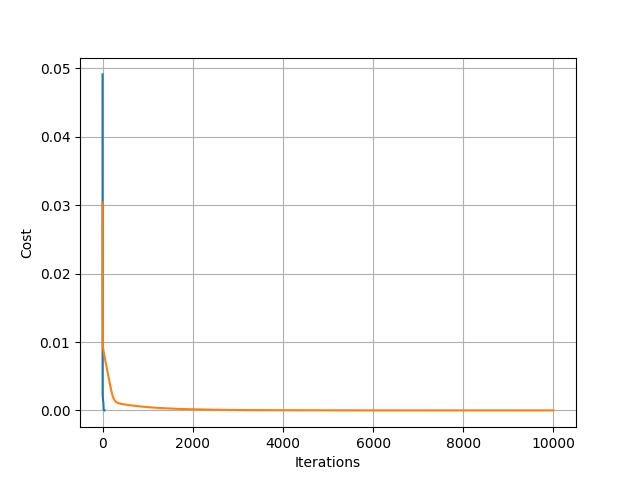
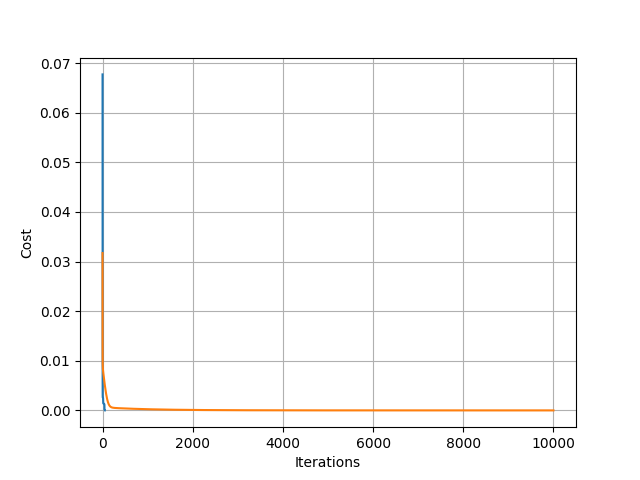
XOR is now working

diff --git a/python-code/forward_prop_test.py b/python-code/forward_prop_test.py
@@ -101,6 +101,32 @@ def test_backprop():
     plt.savefig('cost-reduction-mine.png')
 
 
+def test_xor_backprop():
+    X = np.array(([1, 1], [0, 1], [1, 0], [0,0]), dtype=float)
+    y = np.array(([0], [1], [1], [0]), dtype=float)
+
+    nn = NeuralNetwork(X.shape[1])
+
+    #X = X / np.amax(X, axis=0)
+    #y = y / 1
+    costs = []
+    for i in range(0, 10000):
+        dJdw1, dJdw2 = nn.cost_prime_function(X, y)
+        nn.apply_changes(dJdw1, dJdw2)
+        costs.append(nn.cost_function(X, y))
+
+    print("Predict: ")
+    print(nn.forwardPropagation(X))
+    print("y: ")
+    print(y)
+
+    plt.plot(costs)
+    plt.grid(1)
+    plt.xlabel("Iterations")
+    plt.ylabel("Cost")
+    plt.savefig('cost-reduction-xor.png')
+
+
 def compute_numerical_gradients(nn, x, y):
     params = nn.getParams()
     nrgrad = np.zeros(params.shape)
@@ -124,3 +150,5 @@ if __name__ == '__main__':
     test_opt()
     print("==== My backprop test: ")
     test_backprop()
+    print("==== XOR backprop test: ")
+    test_xor_backprop()
